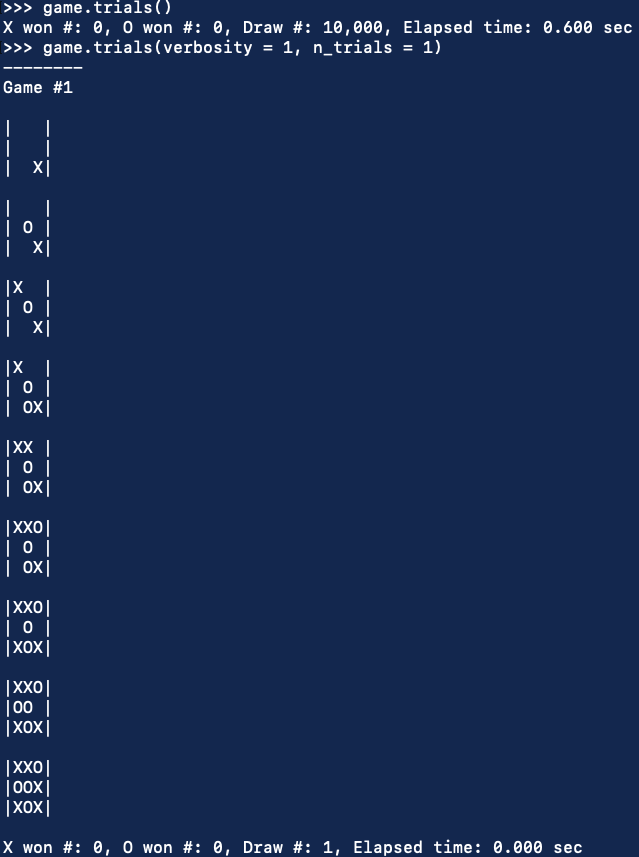
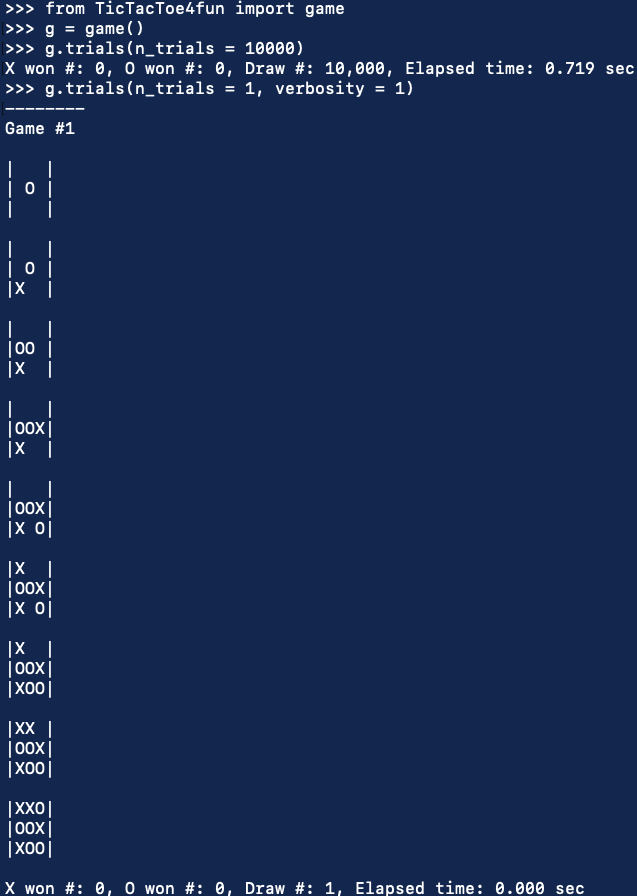
Update

Changed region(s): [[0.0, 0.0, 0.9246, 1.0], [0.7755, 0.0, 1.0, 0.091]]

diff --git a/TicTacToe4fun/__about__.py b/TicTacToe4fun/__about__.py
@@ -5,6 +5,6 @@
 # License: MIT
 
  
-__version__ = "0.0.4"
+__version__ = "0.0.5"
 
 __license__ = "MIT"

diff --git a/README.rst b/README.rst
@@ -35,9 +35,9 @@ Execute
 
 >>> from TicTacToe4fun import game
 >>> g = game()
->>> g.trials(n_trials=10000)
-X won #: 0, O won #: 0, Draw #: 10,000, Elapsed time: 0.600 sec
->>> g.trials(verbosity=1, n_trials=1)
+>>> g.trials(n_trials = 10000)
+X won #: 0, O won #: 0, Draw #: 10,000, Elapsed time: 0.719 sec
+>>> g.trials(n_trials = 1, verbosity = 1)
 
 
 Sample Screenshot
